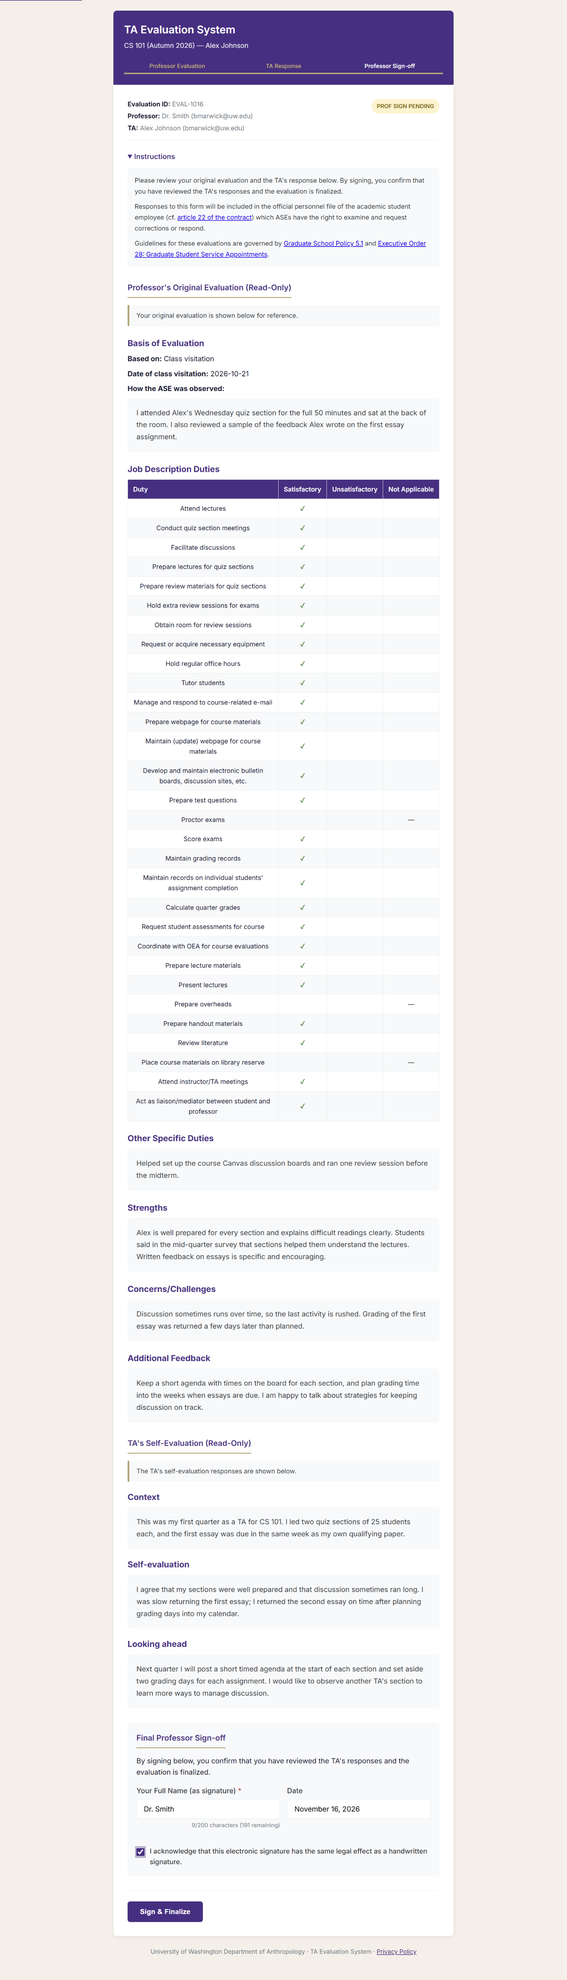
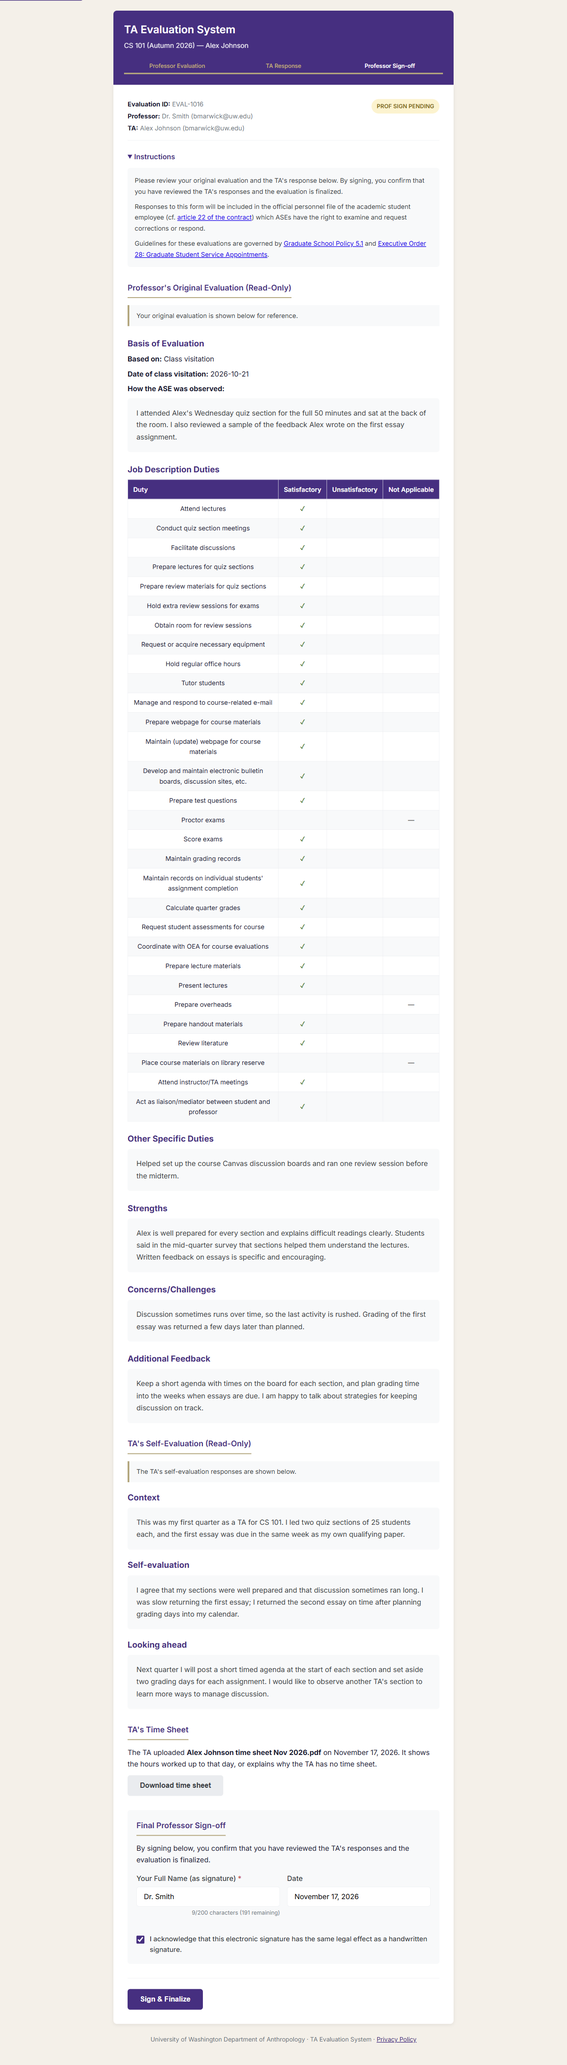
collect the TA's time sheet with the self-evaluation
The TA response form now requires a time sheet upload (PDF, PNG, JPG,
.docx or .xlsx, up to 5 MB), with a note that it only needs to show the
hours worked up to the day the TA submits, and that a TA without a time
sheet should upload a short explanation instead.

The server checks the file's type by its first bytes and its size, saves
it to a "Time sheets" subfolder of the archive folder under a server-made
name, and trashes it if the submission then fails. The instructor
downloads it at sign-off through the web app (getTimesheetForSignoff), so
it is never shared in Drive. The PDF notes the uploaded file, and the TA
invitation and reminders ask the TA to have it ready.

Update the README (workflow, entry points, checks, time sheet section,
release steps, privacy policy) and retake the TA response and sign-off
screenshots.

diff --git a/ta-evaluation-workflow/Index.html b/ta-evaluation-workflow/Index.html
@@ -64,6 +64,9 @@
     }
     input:focus, textarea:focus, select:focus { outline: none; border-color: var(--uw-purple); box-shadow: var(--focus-ring); }
     textarea { min-height: 120px; resize: vertical; }
+    input[type="file"] { width: 100%; padding: 12px 16px; border: 1px dashed var(--uw-gray-500); border-radius: 6px; font-family: inherit; font-size: 1rem; background: var(--uw-gray-100); min-height: 44px; }
+    .field-hint { font-size: 0.9rem; color: var(--uw-gray-700); margin-bottom: 8px; }
+    .field-hint p { margin-bottom: 6px; }
 
     /* Custom radio buttons - accessible */
     .rating-group { display: grid; grid-template-columns: repeat(auto-fit, minmax(180px, 1fr)); gap: 16px; }
@@ -334,12 +337,63 @@
           return;
         }
 
+        var timesheetInput = form.querySelector('[name="timesheet"]');
+        var timesheetFile = timesheetInput && timesheetInput.files ? timesheetInput.files[0] : null;
+        if (action === 'ta_respond') {
+          var timesheetProblem = checkTimesheet(timesheetFile);
+          if (timesheetProblem) {
+            showAlert(timesheetProblem, 'error');
+            return;
+          }
+        }
+
         submitBtn.disabled = true;
         submitBtn.textContent = 'Submitting...';
         showAlert('Submitting...', 'success');
 
         var payload = collectFormData(form);
 
+        if (action === 'ta_respond') {
+          readFileAsBase64(timesheetFile, function(timesheet) {
+            if (!timesheet) {
+              showAlert('Your time sheet file could not be read. Please choose it again.', 'error');
+              submitBtn.disabled = false;
+              submitBtn.textContent = getButtonText(action);
+              return;
+            }
+            sendSubmission(payload, timesheet);
+          });
+        } else {
+          sendSubmission(payload, null);
+        }
+      });
+
+      var TIMESHEET_MAX_BYTES = 5 * 1024 * 1024;
+      var TIMESHEET_EXTENSIONS = ['pdf', 'png', 'jpg', 'jpeg', 'docx', 'xlsx'];
+
+      /* Returns an error message for the chosen time sheet, or '' when it can be sent. The server checks again. */
+      function checkTimesheet(file) {
+        if (!file) return 'Upload your time sheet, or a short document explaining why you do not have one.';
+        var ext = (file.name.split('.').pop() || '').toLowerCase();
+        if (TIMESHEET_EXTENSIONS.indexOf(ext) === -1) return 'The time sheet must be a PDF, PNG, JPG, Word (.docx) or Excel (.xlsx) file.';
+        if (file.size > TIMESHEET_MAX_BYTES) return 'The time sheet file is larger than 5 MB. Please upload a smaller file.';
+        if (file.size === 0) return 'The time sheet file is empty. Please choose another file.';
+        return '';
+      }
+
+      /* Reads a file and calls done({ name, data }) with the contents as base64, or done(null). */
+      function readFileAsBase64(file, done) {
+        var reader = new FileReader();
+        reader.onload = function() {
+          var dataUrl = String(reader.result || '');
+          var comma = dataUrl.indexOf(',');
+          done(comma === -1 ? null : { name: file.name, data: dataUrl.slice(comma + 1) });
+        };
+        reader.onerror = function() { done(null); };
+        reader.readAsDataURL(file);
+      }
+
+      function sendSubmission(payload, timesheet) {
         google.script.run
           .withSuccessHandler(function(result) {
             if (result.success) {
@@ -375,8 +429,50 @@
             submitBtn.disabled = false;
             submitBtn.textContent = getButtonText(action);
           })
-          .submitForm(token, action, payload);
-      });
+          .submitForm(token, action, payload, timesheet);
+      }
+
+      /* The instructor's "Download time sheet" button at sign-off. The file comes through the web app,
+         which checks the link and the signed-in account, so it is never shared in Drive. */
+      var downloadBtn = document.getElementById('timesheetDownload');
+      var downloadStatus = document.getElementById('timesheetStatus');
+      if (downloadBtn) {
+        downloadBtn.addEventListener('click', function() {
+          downloadBtn.disabled = true;
+          downloadStatus.textContent = 'Preparing the download...';
+          google.script.run
+            .withSuccessHandler(function(result) {
+              downloadBtn.disabled = false;
+              if (!result || !result.success) {
+                downloadStatus.textContent = (result && result.error) || 'The time sheet could not be downloaded.';
+                return;
+              }
+              saveBase64File(result.name, result.mimeType, result.data);
+              downloadStatus.textContent = 'Downloaded ' + result.name + '.';
+            })
+            .withFailureHandler(function() {
+              downloadBtn.disabled = false;
+              downloadStatus.textContent = 'Could not reach the server. Check your connection and try again.';
+            })
+            .getTimesheetForSignoff(token);
+        });
+      }
+
+      function saveBase64File(name, mimeType, base64) {
+        var binary = atob(base64);
+        var bytes = new Uint8Array(binary.length);
+        for (var i = 0; i < binary.length; i++) bytes[i] = binary.charCodeAt(i);
+        var blob = new Blob([bytes], { type: mimeType });
+        var url = URL.createObjectURL(blob);
+        var link = document.createElement('a');
+        link.href = url;
+        link.download = name;
+        link.target = '_self';
+        document.body.appendChild(link);
+        link.click();
+        link.remove();
+        setTimeout(function() { URL.revokeObjectURL(url); }, 10000);
+      }
 
       function collectFormData(form) {
         var data = {};
@@ -723,6 +819,19 @@
       </div>
     </div>
 
+    <div class="section">
+      <h2 class="section-title">Time Sheet</h2>
+      <div class="form-group">
+        <label for="timesheet" class="required">Upload your time sheet</label>
+        <div id="timesheet-hint" class="field-hint">
+          <p>Your time sheet only needs to show the hours you have worked <strong>up to today</strong>. It does not need to show the total hours for the whole quarter.</p>
+          <p>If you don't have a time sheet, upload a short document explaining why instead.</p>
+          <p>Accepted files: PDF, PNG, JPG, Word (.docx) or Excel (.xlsx), up to 5 MB. Your instructor can download this file when they sign off.</p>
+        </div>
+        <input type="file" id="timesheet" name="timesheet" accept=".pdf,.png,.jpg,.jpeg,.docx,.xlsx" required aria-describedby="timesheet-hint">
+      </div>
+    </div>
+
     <div class="section signature-block">
       <h2 class="section-title">Digital Signature & Acknowledgment</h2>
       <p style="margin-bottom:16px;">By signing below, you acknowledge that you have reviewed the Professor's evaluation and provided your responses above.</p>
@@ -781,6 +890,18 @@
 
       <h3 style="margin:20px 0 8px;color:var(--uw-purple);">Looking ahead</h3>
       <div class="feedback-display readonly-text" tabindex="0"><?= resp.looking_ahead || '(Not provided)' ?></div>
+    </div>
+
+    <div class="section">
+      <h2 class="section-title">TA's Time Sheet</h2>
+      <? var ts = row.dataPayload; ?>
+      <? if (ts.timesheetFileId) { ?>
+      <p style="margin-bottom:12px;">The TA uploaded <strong><?= ts.timesheetOriginalName || ts.timesheetFileName ?></strong><? if (ts.timesheetUploadedAt) { ?> on <?= Utilities.formatDate(new Date(ts.timesheetUploadedAt), Session.getScriptTimeZone(), 'MMMM d, yyyy') ?><? } ?>. It shows the hours worked up to that day, or explains why the TA has no time sheet.</p>
+      <button type="button" id="timesheetDownload" class="btn btn-secondary">Download time sheet</button>
+      <div id="timesheetStatus" style="font-size:0.9rem;color:var(--uw-gray-700);margin-top:8px;" aria-live="polite"></div>
+      <? } else { ?>
+      <p class="readonly-text">No time sheet was uploaded with this response.</p>
+      <? } ?>
     </div>
 
     <div class="section signature-block">

diff --git a/ta-evaluation-workflow/README.md b/ta-evaluation-workflow/README.md
@@ -165,8 +165,8 @@ Flow:
 
 1. **Launch** — the coordinator runs *Launch Selected Evaluation(s)* from the Sheets menu, which launches every `NOT_STARTED` row (the current selection is ignored). Each row gets a UUID access token (`Secure_Token`, 30-day expiry), status moves to `PROF_EVAL_PENDING`, and an invitation email goes to the professor.
 2. **Stage 1 — Professor Evaluation** (`prof_eval`): the professor completes the evaluation form via a tokenized web link, signs it, and submits. Status → `TA_RESPONSE_PENDING`; the TA gets an email invite.
-3. **Stage 2 — TA Review & Response** (`ta_respond`): the TA views the professor's evaluation read-only, writes a self-evaluation (context / self-evaluation / looking ahead), signs, and submits. Status → `PROF_SIGN_PENDING`; the professor gets an email invite.
-4. **Stage 3 — Professor Final Sign-off** (`prof_sign`): the professor reviews the full evaluation + TA response read-only and signs. Status → `PDF_GENERATING`, and the page replies straight away.
+3. **Stage 2 — TA Review & Response** (`ta_respond`): the TA views the professor's evaluation read-only, writes a self-evaluation (context / self-evaluation / looking ahead), uploads a time sheet showing the hours worked up to that day (or a short document explaining why they have none), signs, and submits. Status → `PROF_SIGN_PENDING`; the professor gets an email invite.
+4. **Stage 3 — Professor Final Sign-off** (`prof_sign`): the professor reviews the full evaluation + TA response read-only, can download the TA's time sheet, and signs. Status → `PDF_GENERATING`, and the page replies straight away.
 5. **PDF Generation** — in the background, a one-off trigger (`generatePendingPdfs`, about a minute after the sign-off) builds a styled, UW-branded PDF, saved to the archive Drive folder, and emailed to both the professor and TA. Status → `COMPLETED`. On failure, status reverts to `PROF_SIGN_PENDING` for retry and an alert is sent to the admin.
 6. **Automation** — a daily trigger checks pending evaluations. After 5 days of inactivity it sends up to 2 reminders, 5 days apart; when reminders are exhausted the evaluation is marked `ESCALATED` and the department administrator is emailed.
 
@@ -179,7 +179,7 @@ Every transition is written to the `Audit_Log` sheet and the `Data_Payload` JSON
 - **Platform:** Google Apps Script (V8 runtime), HTML Service web app (`HtmlService.createTemplateFromFile('Index')`).
 - **Database:** Google Sheets (master roster + audit/log/queue sheets in a single spreadsheet).
 - **Document generation:** PDFs are built programmatically in Google Docs (styled with UW colors) and exported as `application/pdf` — **not** from a tokenized template doc.
-- **Storage:** Google Drive (archive folder for final PDFs).
+- **Storage:** Google Drive (archive folder for final PDFs, and its `Time sheets` subfolder for the TAs' time sheets).
 - **Email:** Gmail via `GmailApp`.
 - **OAuth scopes (`appsscript.json`):** spreadsheets, documents, drive, gmail.send, script.external_request, script.scriptapp (needed to create and list triggers), script.container.ui (needed for the menu's pop-up windows, `showModalDialog`), userinfo.email (needed for `Session.getActiveUser().getEmail()`; without it the signed-in email comes back blank).
 
@@ -198,6 +198,7 @@ Every transition is written to the `Audit_Log` sheet and the `Data_Payload` JSON
 ├── WebApp.gs             # doGet, form functions called from the page, state transitions, health check
 ├── PdfEngine.gs          # Programmatic PDF builder + distribution + retry logic
 ├── EmailEngine.gs        # HTML email templates (invites, reminders, escalation, completion)
+├── Timesheet.gs          # TA time sheet upload checks, Drive storage, instructor download
 ├── Automation.gs         # Daily reminder/escalation trigger
 ├── Index.html            # Single dynamic web app UI (UW palette, WCAG 2.1 AA)
 ├── ErrorView.html        # Error page template
@@ -251,7 +252,9 @@ The JSON payload accumulates fields across stages via deep merge:
   "signatureName": "…",
   "signatureTimestamp": "ISO",
   "taSignatureName": "…", "taSignatureTimestamp": "…",
-  "profSignatureName": "…", "profSignatureTimestamp": "…"
+  "profSignatureName": "…", "profSignatureTimestamp": "…",
+  "timesheetFileId": "Drive file ID", "timesheetFileName": "Timesheet_<EvalID>_<Course>_<TA>.<ext>",
+  "timesheetOriginalName": "the name of the file the TA chose", "timesheetUploadedAt": "ISO"
 }
 ```
 
@@ -288,8 +291,9 @@ Single-page app served at `?action=<action>&token=<token>`. Each stage link is u
 ### Functions the page calls
 The page talks to the server through `google.script.run`, which can call any top-level server function whose name does not end in `_` ([Google's documentation](https://developers.google.com/apps-script/guides/html/communication)). Only these entry points are public:
 
-- `submitForm(token, action, payload)` — submits the current stage: `prof_eval` → `TA_RESPONSE_PENDING` + TA invite; `ta_respond` → `PROF_SIGN_PENDING` + sign-off invite; `prof_sign` → `PDF_GENERATING`; the reply comes straight back and the PDF is built in the background (§6).
+- `submitForm(token, action, payload, timesheet)` — submits the current stage: `prof_eval` → `TA_RESPONSE_PENDING` + TA invite; `ta_respond` (with the time sheet file as `timesheet`) → `PROF_SIGN_PENDING` + sign-off invite; `prof_sign` → `PDF_GENERATING`; the reply comes straight back and the PDF is built in the background (§6).
 - `saveDraftData(token, payload)` / `loadDraftData(token)` — the instructor's draft, during `PROF_EVAL_PENDING` only.
+- `getTimesheetForSignoff(token)` — the TA's time sheet as base64, for the instructor's download button, during `PROF_SIGN_PENDING` only (30 downloads per account per hour).
 - `doGet` (the web app), `onOpen` and the 14 menu items, which refuse anyone except `ADMIN_EMAIL` (`assertOwner_`). The check names the account, so it does not depend on how the web app is deployed.
 - The trigger handlers (`checkRemindersAndEscalations`, `processDeadLetterQueue`, `checkAlertThresholds`, and the one-off `generatePendingPdfs`), which run only for `ADMIN_EMAIL` or for a trigger event whose `triggerUid` matches one of this project's own triggers for that handler (`assertTriggerOrOwner_`). A forged event object is refused.
 
@@ -313,15 +317,18 @@ Then opening a link and every call go through `loadAuthorizedRow_` / `checkStage
 A submission then has to pass:
 
 9. **Fields** — each stage may only write its own fields (`STAGE_FIELDS_`), so the TA cannot change the instructor's evaluation and the reverse. Text is stored as typed, length-capped, with control characters removed; it is escaped where it is shown (the pages use `<?= ?>`, the PDF is plain text). Duty ratings are limited to `satisfactory`/`unsatisfactory`/`na`, and duty keys to `task_` names.
-10. **Required content** (`validateStageFields_`) — the instructor's evaluation needs a basis of evaluation, a rating for every duty in `DUTY_LIST_` (`Config.gs`; the same list feeds the form and the PDF), strengths, concerns and at least 10 characters of feedback. The TA's response needs all three answers. Each step needs the typed signature. A whole evaluation must fit in 45,000 characters.
+10. **Required content** (`validateStageFields_`) — the instructor's evaluation needs a basis of evaluation, a rating for every duty in `DUTY_LIST_` (`Config.gs`; the same list feeds the form and the PDF), strengths, concerns and at least 10 characters of feedback. The TA's response needs all three answers and a time sheet file. Each step needs the typed signature. A whole evaluation must fit in 45,000 characters.
 11. **Signature** — the server records the signer's UW account and the time (`signatureEmail`/`taSignatureEmail`/`profSignatureEmail` and the matching timestamps), and the audit log records the account.
-12. **Lock** — `submitForm` and draft saves hold the script lock (`LockService`) while they re-check steps 4–8 and update the row, so a late autosave cannot undo a submission. Row updates write only the changed cells and never read them first.
-13. **Token rotation** — a new token is issued at every stage transition, so a finished step's link stops working. The token is cleared when the evaluation is `COMPLETED`.
+12. **Time sheet** (`Timesheet.gs`) — PDF, PNG, JPG, Word (.docx) or Excel (.xlsx), up to 5 MB. The server checks the file's first bytes, not the browser's file type, names the file itself (`Timesheet_<EvalID>_<Course>_<TA>.<ext>`) and saves it to the `Time sheets` subfolder of the archive folder before taking the lock. If the submission then fails, the file is moved to the trash. The file ID is recorded by the server; the page cannot supply one. The file is never shared in Drive: the instructor downloads it through `getTimesheetForSignoff`, which runs checks 1–8.
+13. **Lock** — `submitForm` and draft saves hold the script lock (`LockService`) while they re-check steps 4–8 and update the row, so a late autosave cannot undo a submission. Row updates write only the changed cells and never read them first.
+14. **Token rotation** — a new token is issued at every stage transition, so a finished step's link stops working. The token is cleared when the evaluation is `COMPLETED`.
 
 ### UI (`Index.html`)
 Single dynamic page (not a separate template per stage) that renders the active step. Styled to the UW brand (purple `#4B2E83`, gold `#B7A57A`, Inter font) and built for WCAG 2.1 AA: skip link, semantic landmarks, ARIA progress bar, visible keyboard focus, `role="alert"` live regions, print stylesheet, mobile-responsive layout, character counters, and accessible custom radio buttons. The web forms meet current accessibility best practices: every input is labeled, required fields are announced and validated with clear error messages, radio groups use `<fieldset>`/`<legend>`, and all controls have touch targets of at least 44 px. The professor's form auto-saves to the server (1 s debounce). Nothing is kept in the browser; a draft left there by an older version is deleted when the form opens.
 
 The screenshots below come from one test evaluation run through all three steps of the deployed web app on November 16, 2026. The names and comments are made up: the instructor is "Dr. Smith" and the TA is "Alex Johnson". Both roles use the coordinator's own UW account (`bmarwick@uw.edu`), because each form opens only for the account named in the row, so one person can run the whole test.
+
+The TA response and sign-off screenshots were retaken on November 17, 2026, when the time sheet upload was added. They show the same test evaluation, rendered from the deployed version of `Index.html` with a sample time sheet file chosen. The PDF screenshot predates the time sheet and does not show the PDF's "Time Sheet" section.
 
 ### Professor Evaluation Form (`prof_eval`)
 - **Basis of Evaluation** — class visitation vs. other, with visitation date and observation description.
@@ -339,23 +346,39 @@ The screenshots below come from one test evaluation run through all three steps 
 ### TA Response Form (`ta_respond`)
 - Professor's evaluation displayed read-only (duty matrix + strengths + concerns + feedback).
 - **Self-evaluation** — three required free-text fields: *Context*, *Self-evaluation*, *Looking ahead*.
+- **Time Sheet** — a required file upload. The note under it says the time sheet only needs to show the hours worked up to the day the TA submits, not the total for the whole quarter, and that a TA without a time sheet should upload a short document explaining why.
 - Digital signature + acknowledgment.
 
 <details>
 <summary>Screenshot: the TA's response form, filled in</summary>
 
-![The TA's response form, showing the instructor's evaluation read-only above the three self-evaluation answers and the signature](screenshots/2-ta-response.png)
+![The TA's response form, showing the instructor's evaluation read-only above the three self-evaluation answers, the time sheet upload with its note, and the signature](screenshots/2-ta-response.png)
 
 </details>
 
+### The TA's Time Sheet
+The TA must upload a time sheet with their response. The form says, under the upload field:
+
+> Your time sheet only needs to show the hours you have worked **up to today**. It does not need to show the total hours for the whole quarter.
+> If you don't have a time sheet, upload a short document explaining why instead.
+> Accepted files: PDF, PNG, JPG, Word (.docx) or Excel (.xlsx), up to 5 MB. Your instructor can download this file when they sign off.
+
+- **Accepted files:** `.pdf`, `.png`, `.jpg`/`.jpeg`, `.docx` and `.xlsx`, up to 5 MB (`TIMESHEET_TYPES_` and `TIMESHEET_MAX_BYTES_` in `Timesheet.gs`). The file picker offers only these types. The page checks the type and size before sending, and the server checks again, using the file's first bytes rather than its name, so a renamed file is refused.
+- **Emails:** the TA's invitation and reminders ask the TA to have the time sheet ready, with the same note. The instructor's sign-off invitation mentions the download.
+- **Storage:** the file is saved as `Timesheet_<EvalID>_<Course>_<TA>.<ext>` in a `Time sheets` subfolder of the archive folder, which the app creates the first time it needs it. `Data_Payload` records the file ID, the saved name, the name of the file the TA chose and the upload time.
+- **Instructor download:** the sign-off page shows the file name and upload date and a **Download time sheet** button. The file comes through the web app (`getTimesheetForSignoff`), so it is never shared in Drive and only the instructor named in the row, signed in, can download it while the sign-off is pending.
+- **PDF:** the signed PDF has a "Time Sheet" section with the file's name and date. The time sheet itself stays a separate file.
+- **Evaluations started before November 17, 2026:** if the TA had already responded, the sign-off page says "No time sheet was uploaded with this response" and the PDF has no Time Sheet section. TAs who had not yet responded see the upload on their form.
+
 ### Professor Sign-off Form (`prof_sign`)
 - Professor's original evaluation and the TA's self-evaluation displayed read-only.
+- **TA's Time Sheet** — the uploaded file's name and date, with a *Download time sheet* button. Evaluations whose TA step was finished before time sheets were collected say that no time sheet was uploaded.
 - Final signature + acknowledgment.
 
 <details>
 <summary>Screenshot: the instructor's sign-off form, filled in</summary>
 
-![The instructor's sign-off form, showing the evaluation and the TA's self-evaluation read-only above the final signature](screenshots/3-instructor-signoff.png)
+![The instructor's sign-off form, showing the evaluation and the TA's self-evaluation read-only, the TA's time sheet with a download button, and the final signature](screenshots/3-instructor-signoff.png)
 
 </details>
 
@@ -369,7 +392,7 @@ After the instructor signs, the page confirms that the PDF is on its way:
 
 The PDF is **built programmatically** — no template doc. A temporary Google Doc is created, populated by `buildStyledDocument_()`, then exported as `application/pdf`.
 
-- **Contents:** "UW Anthropology Department ASE Evaluation" header (course/term, professor • TA), evaluation metadata, basis of evaluation, the duty-matrix table (with ✓ / ✗ / — marks), other duties, strengths, concerns, additional feedback, TA self-evaluation, and signature blocks. Each signature block shows the typed name, the time the server recorded, and the UW account that signed. The `Evaluation_ID` also appears in small grey text (7 pt) at the bottom right of every page.
+- **Contents:** "UW Anthropology Department ASE Evaluation" header (course/term, professor • TA), evaluation metadata, basis of evaluation, the duty-matrix table (with ✓ / ✗ / — marks), other duties, strengths, concerns, additional feedback, TA self-evaluation, a note of the time sheet the TA uploaded (file name and date; the time sheet itself is not merged into the PDF), and signature blocks. Each signature block shows the typed name, the time the server recorded, and the UW account that signed. The `Evaluation_ID` also appears in small grey text (7 pt) at the bottom right of every page.
 
   ![The three pages of the signed PDF for the test evaluation: details and duty table, comments, and the TA's self-evaluation with both signature blocks](screenshots/5-signed-pdf.png)
 - **Deterministic filename:** `Evaluation_<EvalID>_<Course>_<TAName>.pdf`.
@@ -441,12 +464,13 @@ Triggers with alerts found → consolidated email to `ADMIN_EMAIL` grouped by se
 - **Abuse limits:** malformed links and callers who are not signed in are refused before the sheet, the cache or the lock is touched; the rate limits are per account (§5).
 - **Tokenized links:** UUID v4 tokens per evaluation and stage, rotated on every transition, expiring after 30 days (`TOKEN_TTL_DAYS`), cleared on completion. A link alone does not open a form; the right account must be signed in.
 - **Signatures:** the typed name, plus the UW account and time recorded by the server, appear in the audit log and on the PDF.
+- **Uploads:** the TA's time sheet is checked by type (first bytes) and size, named by the server, and kept in the archive's `Time sheets` subfolder. It is not shared in Drive; the instructor downloads it through the web app at sign-off (§5).
 - **Input handling:** per-stage field lists and required content (§5). Text is stored as typed and escaped on output: the pages use `<?= ?>`, the PDF is plain text, and the emails to instructors and TAs escape names.
 - **Browser storage:** none. Drafts are kept on the server.
 - **Framing:** the page uses Google's default frame protection (no `ALLOWALL`).
 - **Errors:** users see plain messages; details go to the `Logs` sheet.
 - **Sheet protection:** admin sheets can be protected so only `ADMIN_EMAIL` can edit. Share the master spreadsheet and the archive folder only with the owner and the Graduate Program Coordinator, as the [Privacy Policy](#privacy-policy) states: the sheet contains live tokens and every evaluation's text.
-- **Retention:** `Logs` entries and finished dead-letter entries are deleted after `LOG_RETENTION_DAYS`; dead-letter payloads are cleared when an item finishes, and PDF retries store only the ID. The temporary Doc used to build a PDF is deleted even when the build fails. `Audit_Log` is kept: it records who signed each step and holds no evaluation text or tokens. `Data_Payload` and the archived PDFs are kept until someone deletes them. The [Privacy Policy](#privacy-policy) sets how long: at least 6 years after the ASE's employment with the department ends (UW records series "Personnel Records for Academic Student Employees (ASE)"). The code does not delete them; the Graduate Program Coordinator does.
+- **Retention:** `Logs` entries and finished dead-letter entries are deleted after `LOG_RETENTION_DAYS`; dead-letter payloads are cleared when an item finishes, and PDF retries store only the ID. The temporary Doc used to build a PDF is deleted even when the build fails. `Audit_Log` is kept: it records who signed each step and holds no evaluation text or tokens. `Data_Payload`, the archived PDFs and the time sheets are kept until someone deletes them. The [Privacy Policy](#privacy-policy) sets how long: at least 6 years after the ASE's employment with the department ends (UW records series "Personnel Records for Academic Student Employees (ASE)"). The code does not delete them; the Graduate Program Coordinator does.
 - **Email account:** invitations, reminders and PDFs are sent from the Google account that owns the script, so copies collect in that account's Sent folder. Deploying from a department account avoids this.
 - **CSP:** an optional nonce attribute on the inline script; disabled by default (`SECURITY.CSP_NONCE_ENABLED`).
 
@@ -506,6 +530,16 @@ Key settings (all in the `CONFIG` object):
 6. Run **Create/Refresh All Triggers** to install the daily reminder, DLQ, and alerting triggers.
 7. (Optional) Run **Protect Admin Sheets** to restrict editing to the admin.
 
+### Releasing a change
+The `/exec` URL serves a fixed deployment version, while triggers (reminders, PDF builds) run the latest pushed code. Release both together, so emails never describe a form that is not live yet:
+
+```sh
+clasp push
+clasp deploy -i <deployment ID from the /exec URL> -d "what changed"
+```
+
+Updating the existing deployment keeps the same `/exec` URL, so links already sent keep working. Anyone with a form open during the release should reload it.
+
 ---
 
 ## 13. Logging & Audit
@@ -518,7 +552,7 @@ Key settings (all in the `CONFIG` object):
 
 ## Privacy Policy
 
-*Last updated: November 15, 2026*
+*Last updated: November 17, 2026*
 
 This policy explains how the University of Washington (UW) Department of Anthropology collects, uses, shares, keeps and protects personal information in the TA Evaluation System. It applies to the instructors and the Academic Student Employees (ASEs, including TAs) who use the evaluation forms and receive the system's emails.
 
@@ -542,6 +576,7 @@ The system runs under one UW Google account, called the *system account* below. 
 | The instructor's evaluation: basis of evaluation, a rating for each of 30 duties, strengths, concerns and feedback | The instructor, on the evaluation form | Yes. The form cannot be submitted without them. |
 | Date and description of a class visit, and other duties | The instructor, on the evaluation form | No |
 | The TA's response: context, self-evaluation and looking ahead | The TA, on the response form | Yes. The form cannot be submitted without them. |
+| The TA's time sheet, showing the hours worked up to the day the TA submits the form, or a short document explaining why the TA has no time sheet | The TA, uploaded on the response form | Yes. The form cannot be submitted without a file. |
 | A typed name as signature, with an acknowledgment, at each step | The person completing that step | Yes |
 | The UW account that signed each step, and the time | Recorded by the system when each step is submitted | Automatic |
 | A record of each step: the UW account that acted, the change of status and the time (the `Audit_Log` sheet) | Recorded by the system | Automatic |
@@ -557,6 +592,7 @@ If an instructor does not complete the required parts, the evaluation cannot mov
 UW [Executive Order 28](https://policy.uw.edu/directory/po/executive-orders/eo-28-graduate-student-service-appointments/) says that "each department will be responsible for implementing a program of evaluation, which allows for student response, to be conducted at least annually". For TAs it requires "at least one observation by faculty with feedback to the student" in each of their first two quarters of teaching at UW. The department uses the information to:
 
 - run that evaluation program, and give each TA written feedback and a chance to respond;
+- let the instructor see the hours the TA has worked so far when they sign off the evaluation;
 - place the finished evaluation in the ASE's personnel file (UAW ASE contract, Article 22);
 - consider reappointment and promotion of ASEs, together with other information, as Executive Order 28 provides ("evaluations of the student appointee's performance should be part of the basis for the reappointment consideration");
 - send the forms, reminders and the signed PDF, record who signed each step, and find and fix problems with the system.
@@ -573,8 +609,8 @@ The department does not use the information for any other purpose, does not sell
 
 | Who | What they can see |
 |---|---|
-| The instructor | Their own evaluation; the TA's response at the sign-off step; the signed PDF |
-| The TA | The instructor's evaluation, read-only; their own response; the signed PDF |
+| The instructor | Their own evaluation; the TA's response and time sheet at the sign-off step; the signed PDF |
+| The TA | The instructor's evaluation, read-only; their own response; the signed PDF, which names the time sheet they uploaded (they can ask the Graduate Program Coordinator for a copy) |
 | The Graduate Program Coordinator and the system account | Everything in the master spreadsheet and the archive folder, and the reminder, escalation and alert emails |
 | Other UW faculty and staff | Only when they have a legitimate UW-related business need, such as a reappointment decision |
 | The union (UAW 4121) | Only with the ASE's written consent (UAW ASE contract, Article 22, Section 6) |
@@ -585,7 +621,7 @@ A link from an email does not open a form by itself. Each form opens only for th
 
 ### How the Information Is Stored and Protected
 
-The information is kept in one Google Sheet (the master spreadsheet) and one Google Drive folder (the signed PDFs), both owned by the system account in UW Google. The department shares them only with the Graduate Program Coordinator and the system account. Copies of the emails stay in the system account's Sent mail, and in the instructor's and TA's mailboxes, along with the attached PDF.
+The information is kept in one Google Sheet (the master spreadsheet) and one Google Drive folder (the signed PDFs, and the time sheets in its `Time sheets` subfolder), both owned by the system account in UW Google. The department shares them only with the Graduate Program Coordinator and the system account. Copies of the emails stay in the system account's Sent mail, and in the instructor's and TA's mailboxes, along with the attached PDF.
 
 Following the UW principles of collecting only what is needed and giving access only to those who need it ([APS 2.2](https://policy.uw.edu/directory/aps/section-00/aps-2-2-university-privacy-policy/), [UW Privacy Principles](https://it.uw.edu/guides/privacy/principles/)), the system:
 
@@ -601,7 +637,7 @@ Section [9. Security and Privacy](#9-security-and-privacy) describes these contr
 
 | Information | How long |
 |---|---|
-| The finished evaluation (its row in the master spreadsheet and the signed PDF) and its audit log entries | At least the period set by the [UW General Records Retention Schedule](https://finance.uw.edu/recmgt/) series [Personnel Records for Academic Student Employees (ASE)](https://finance.uw.edu/recmgt/recordseries/personnel-records-ase): 6 years after the ASE's employment with the department ends. The Graduate Program Coordinator then deletes them. The system does not delete them automatically. |
+| The finished evaluation (its row in the master spreadsheet, the signed PDF and the TA's time sheet) and its audit log entries | At least the period set by the [UW General Records Retention Schedule](https://finance.uw.edu/recmgt/) series [Personnel Records for Academic Student Employees (ASE)](https://finance.uw.edu/recmgt/recordseries/personnel-records-ase): 6 years after the ASE's employment with the department ends. The Graduate Program Coordinator then deletes them. The system does not delete them automatically. |
 | Evaluations that were started but never finished | The same as finished evaluations |
 | Error and activity logs (`Logs` sheet), and finished entries in the `Dead_Letter_Queue` sheet | 90 days, deleted automatically every day |
 | Rate-limit counts | One hour, deleted automatically |
